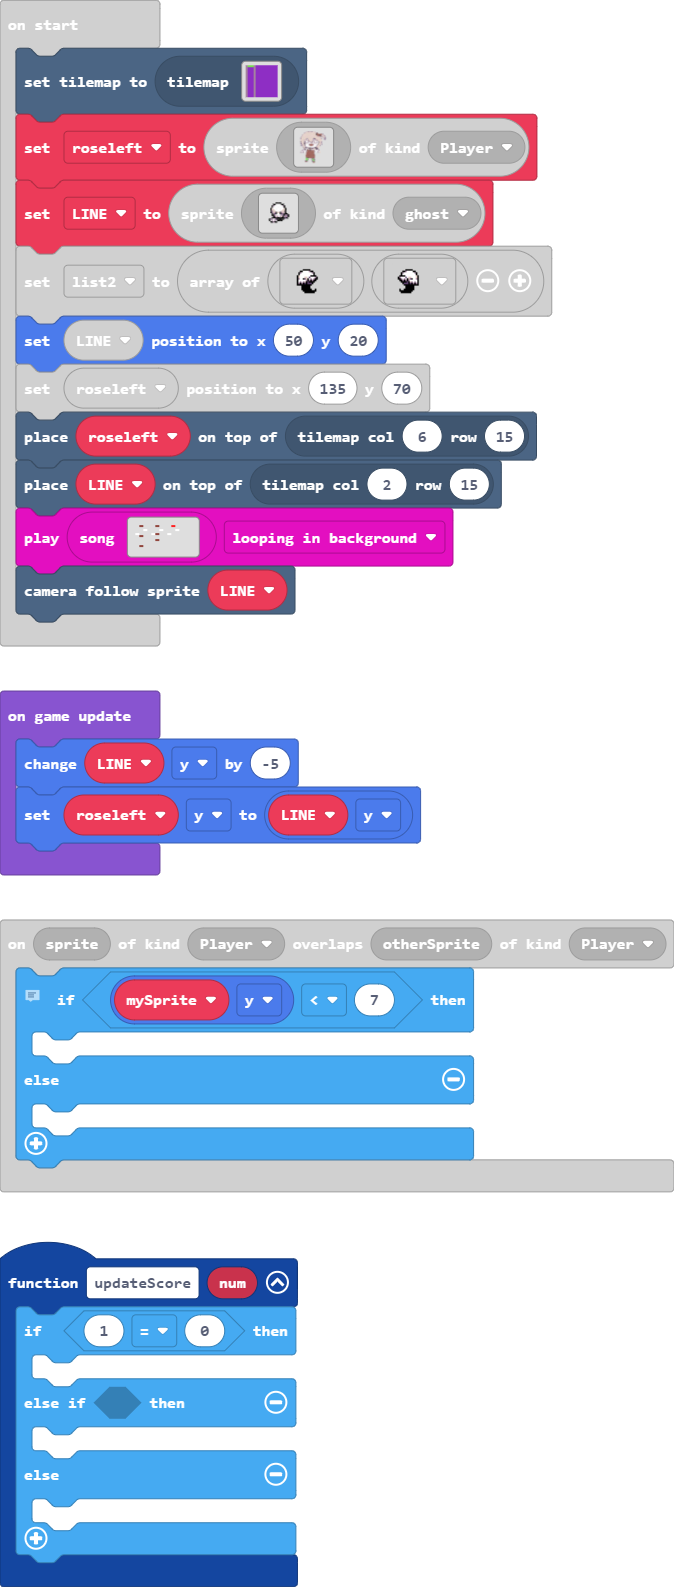
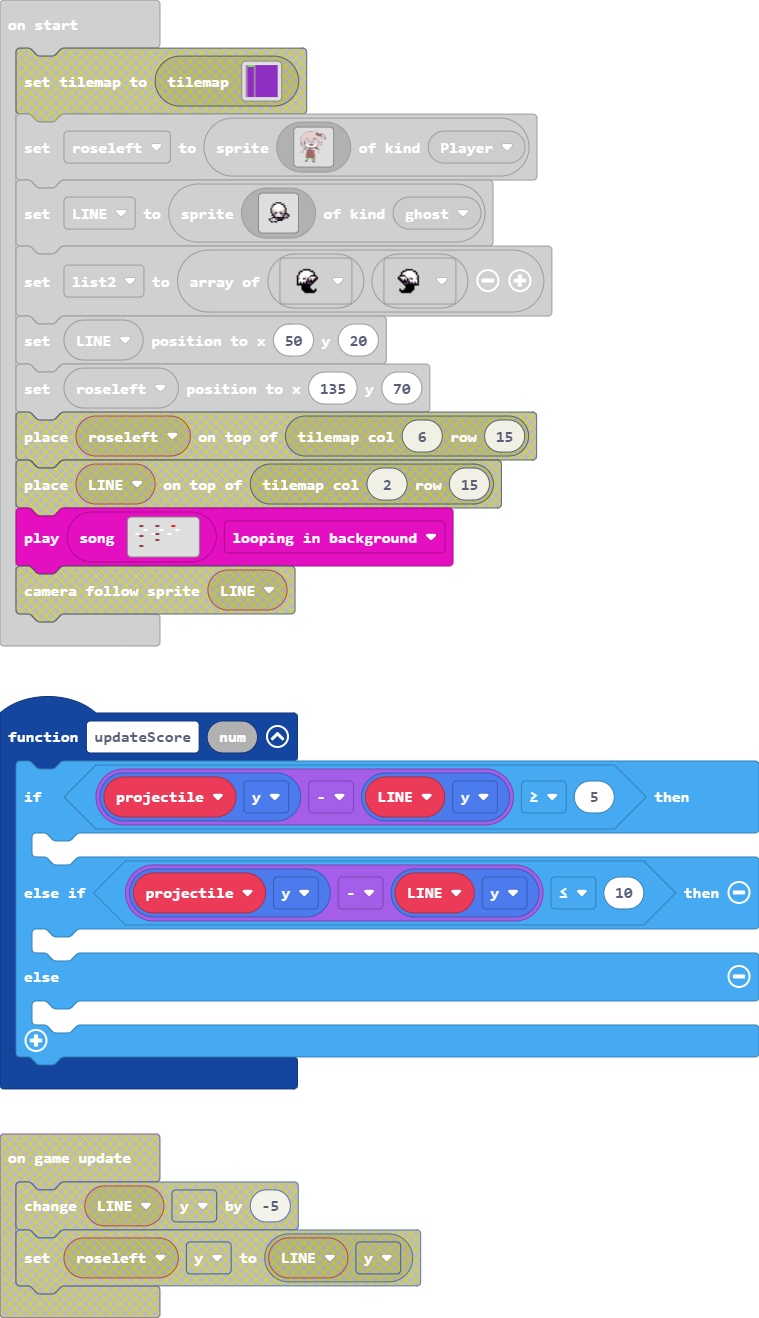
Update main.blocks, main.ts, tilemap.g.jres, tilemap.g.ts

diff --git a/tilemap.g.ts b/tilemap.g.ts
@@ -127,6 +127,25 @@ namespace myTiles {
 . . . . . . . . . . . . . . . . 
 . . . . . . . . . . . . . . . . 
 `, [myTiles.transparency16,myTiles.tile1,myTiles.tile3,myTiles.tile4], TileScale.Sixteen);
+            case "level8":
+            case "level8":return tiles.createTilemap(hex`1000100000000000000000000000000000000000000000000000000000000000000000000000000000000000000000000000000000000000000000000000000000000000000000000000000000000000000000000000000000000000000000000000000000000000000000000000000000000000000000000000000000000000000000000000000000000000000000000000000000000000000000000000000000000000000000000000000000000000000000000000000000000000000000000000000000000000000000000000000000000000000000000000000000000000000000000000000000000000000000000000000000000000000000000000000000000000`, img`
+. . . . . . . . . . . . . . . . 
+. . . . . . . . . . . . . . . . 
+. . . . . . . . . . . . . . . . 
+. . . . . . . . . . . . . . . . 
+. . . . . . . . . . . . . . . . 
+. . . . . . . . . . . . . . . . 
+. . . . . . . . . . . . . . . . 
+. . . . . . . . . . . . . . . . 
+. . . . . . . . . . . . . . . . 
+. . . . . . . . . . . . . . . . 
+. . . . . . . . . . . . . . . . 
+. . . . . . . . . . . . . . . . 
+. . . . . . . . . . . . . . . . 
+. . . . . . . . . . . . . . . . 
+. . . . . . . . . . . . . . . . 
+. . . . . . . . . . . . . . . . 
+`, [myTiles.transparency16], TileScale.Sixteen);
         }
         return null;
     })

diff --git a/main.ts b/main.ts
@@ -176,9 +176,9 @@ sprites.onOverlap(SpriteKind.Player, SpriteKind.Player, function (sprite, otherS
     }
 })
 function updateScore (num: number) {
-    if ((1 as any) == (0 as any)) {
+    if (projectile.y - LINE.y >= 5) {
     	
-    } else if (false) {
+    } else if (projectile.y - LINE.y <= 10) {
     	
     } else {
     	
@@ -187,7 +187,6 @@ function updateScore (num: number) {
 let projectile: Sprite = null
 let LINE: Sprite = null
 let roseleft: Sprite = null
-tiles.setCurrentTilemap(tilemap`level7`)
 roseleft = sprites.create(img`
     ...........ccbbbbcc....................
     ........bdddddddddddddb................
@@ -269,14 +268,7 @@ LINE = sprites.create(img`
 let list2 = [sprites.castle.skellyAttackLeft1, sprites.castle.skellyAttackRight2]
 LINE.setPosition(50, 20)
 roseleft.setPosition(135, 70)
-tiles.placeOnTile(roseleft, tiles.getTileLocation(6, 15))
-tiles.placeOnTile(LINE, tiles.getTileLocation(2, 15))
 music.play(music.createSong(assets.song`mySong`), music.PlaybackMode.LoopingInBackground)
-scene.cameraFollowSprite(LINE)
-game.onUpdate(function () {
-    LINE.y += -5
-    roseleft.y = LINE.y
-})
 game.onUpdateInterval(music.beat(BeatFraction.Double), function () {
     projectile = sprites.createProjectileFromSide(list2[randint(0, 1)], 0, -50)
     projectile.setPosition(50, 120)
